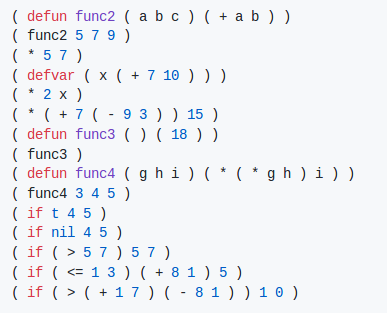
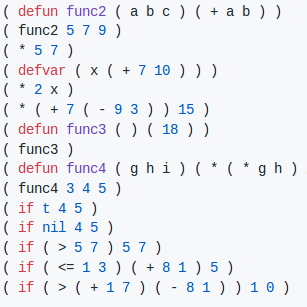
cropped images

diff --git a/index.html b/index.html
@@ -57,7 +57,7 @@
 							<section class="tiles">
 								<article class="style5">
 									<span class="image">
-										<img src="images/catalanngon.png" alt="" />
+										<img src="images/catalanngon_cropped.png" alt="" />
 									</span>
 									<a href="catalan.html">
 										<h2>Catalan Numbers</h2>
